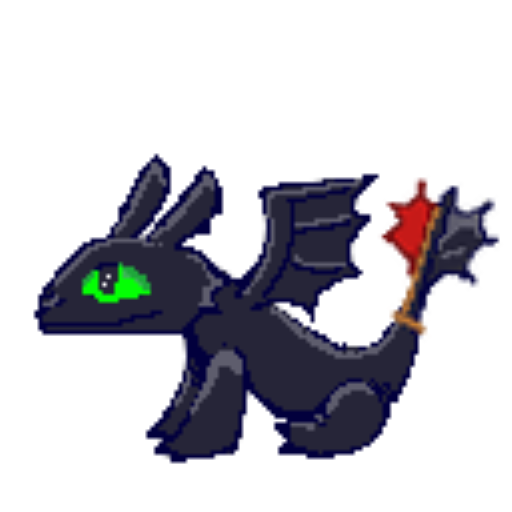
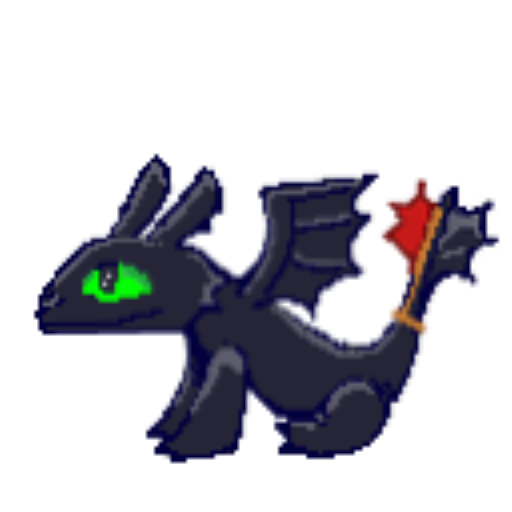
animação de idle v2

diff --git a/extension.js b/extension.js
@@ -45,7 +45,7 @@ export default class BanguelaExtension extends Extension {
     this._gicons = {};
 
     this.ANIMATION_DATA = {
-      sitting: { prefix: "SENTADINHO", fps: 5, frameCount: 30 },
+      sitting: { prefix: "SENTADINHO", fps: 7, frameCount: 33 },
       getting_up: { prefix: "LEVANTANDO", fps: 24, frameCount: 13 },
       walking: { prefix: "BANGUELA", fps: 15, frameCount: 21 },
       flying: { prefix: "VOANDO", fps: 13, frameCount: 6 },
@@ -282,9 +282,7 @@ export default class BanguelaExtension extends Extension {
             this._currentPos.y += (dy / distance) * step;
           }
 
-          // CORREÇÃO: Hysteresis (Zona Morta) para evitar ricochete direcional em altas velocidades.
-          // Só inverte o eixo X se a distância horizontal (dx) for maior que 10 pixels.
-          // Caso contrário, mantém a última direção, prevenindo a tremedeira na escala.
+          
           if (Math.abs(dx) > 10) {
             const currentDirX = dx < 0 ? 1 : -1;
             this._lastScaleX = currentDirX;
